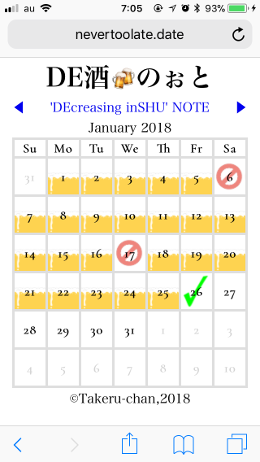
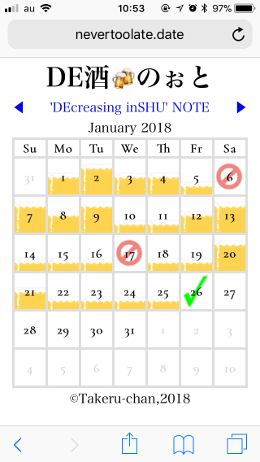
飲酒量に応じてアイコン表示を切り替え

diff --git a/deshu.php b/deshu.php
@@ -11,9 +11,6 @@ if ($month < 1 or $month > 12) {
   $month = $currDatetime->format('n');
 }
 $dispDatetime->setDate($year,$month,1);
-foreach(glob("./deshu-note/".$dispDatetime->format('Y').$dispDatetime->format('m')."*.deshu") as $file) {
-  $dryday[] = substr(pathinfo($file,PATHINFO_FILENAME),-2);
-}
 $stylesheet = <<< EOM
 <style>
   *{-webkit-touch-callout:none;-webkit-user-select:none;user-select:none;margin:0;padding:0;text-align:center;}
@@ -33,11 +30,22 @@ foreach(glob('/usr/local/www/never/deshu-note/*.active') as $filename) {
 }
 if ($dispDatetime->format('Ymd') < $activeDate) {
   $stylesheet = $stylesheet.".drinkday{background:url('./images/nodata.png');}";
-} else {
-  $stylesheet = $stylesheet.".drinkday{background:url('./images/beer.png');}";
 }
-foreach($dryday as $drytag) {
-  $stylesheet = $stylesheet."#d".$drytag."{background:url('./images/dry.png');}";
+$line = @file(__DIR__ . "/deshu-note/".$dispDatetime->format('Y').$dispDatetime->format('m').".deshu", FILE_IGNORE_NEW_LINES);
+for ($i=0; $i<count($line); $i++) {
+  $param = explode(":",$line[$i]);
+  switch ($param[1]) {
+  case 'high':
+  case 'low':
+    $stylesheet = $stylesheet."#d".$param[0]."{background:url('./images/beer-".$param[1].".png');}";
+    break;
+  case 'mid':
+    $stylesheet = $stylesheet."#d".$param[0]."{background:url('./images/beer.png');}";
+    break;
+  case 'dry':
+    $stylesheet = $stylesheet."#d".$param[0]."{background:url('./images/dry.png');}";
+    break;
+  }
 }
 ?>
 <!doctype html>
